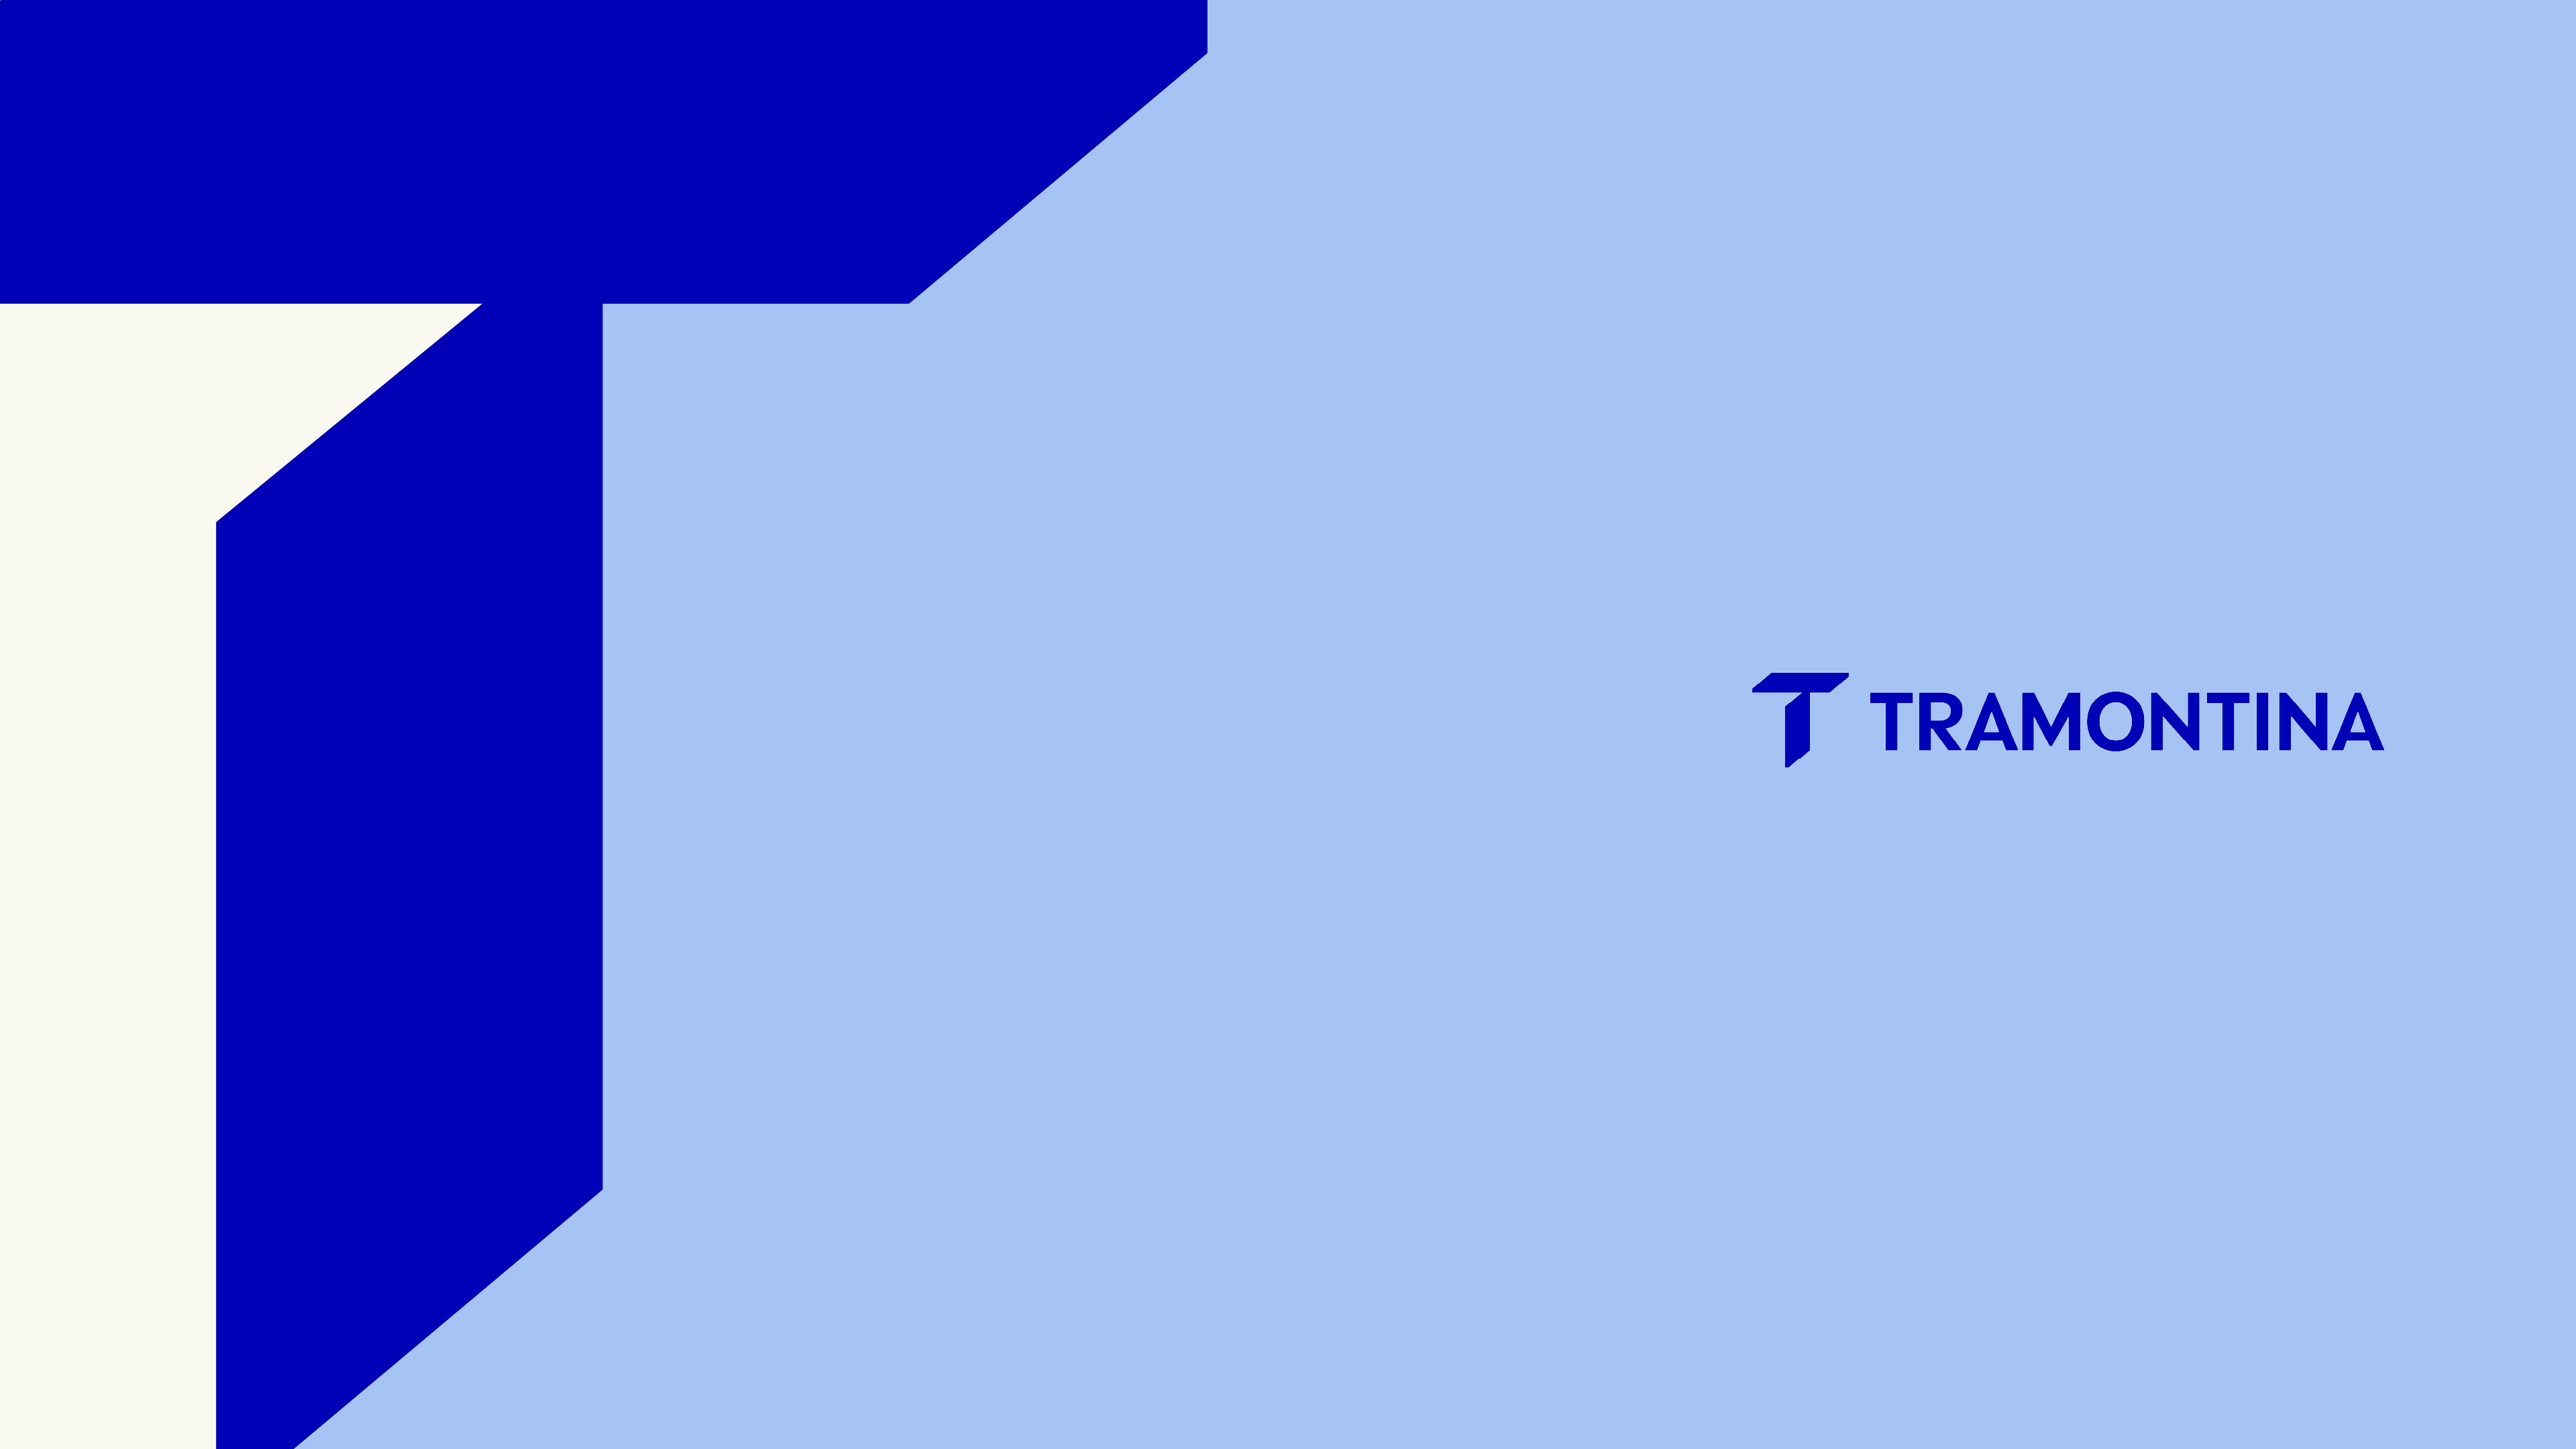
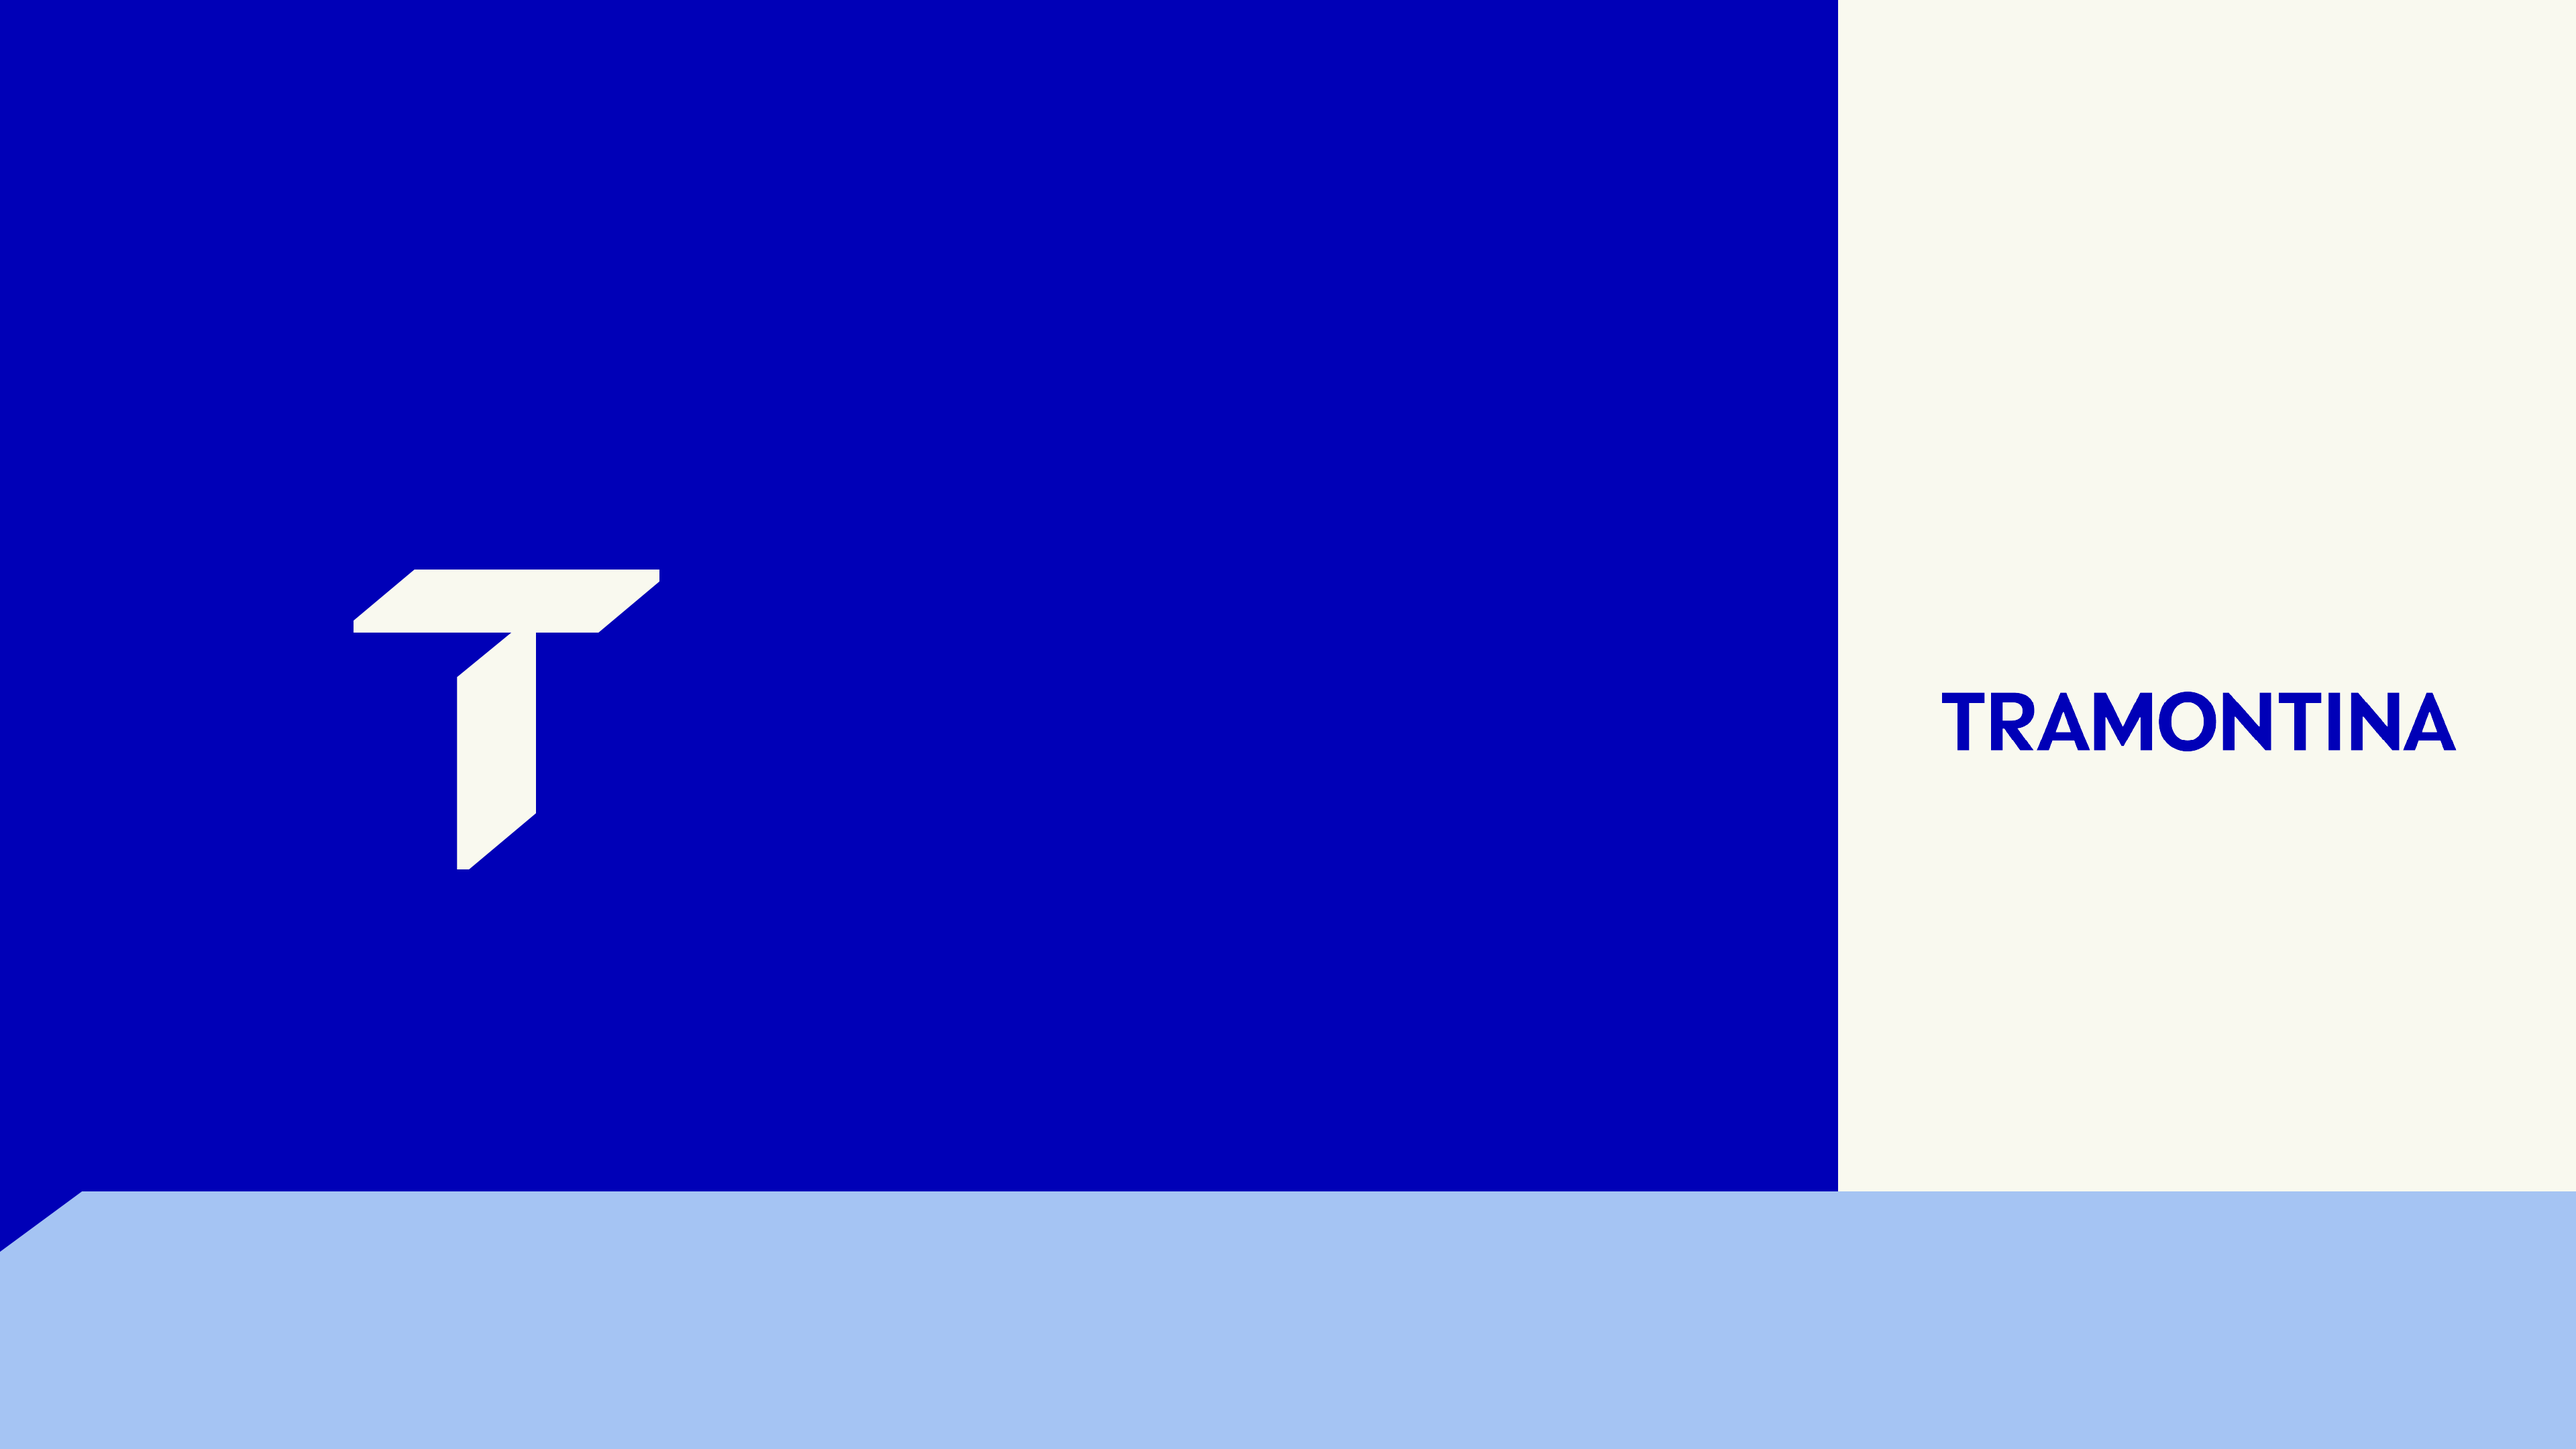
Atualização de bg

diff --git a/style.css b/style.css
@@ -7,10 +7,10 @@
 
 body {
     background: url(IMAGENS/fs01n02k0onMLSsoA358.png);
-    background-size: cover;
+    background-size:cover;
     background-repeat: no-repeat;
     background-attachment: fixed;
-    background-position: top center;
+    background-position: center center;
 }
 main {
     display: flex;
